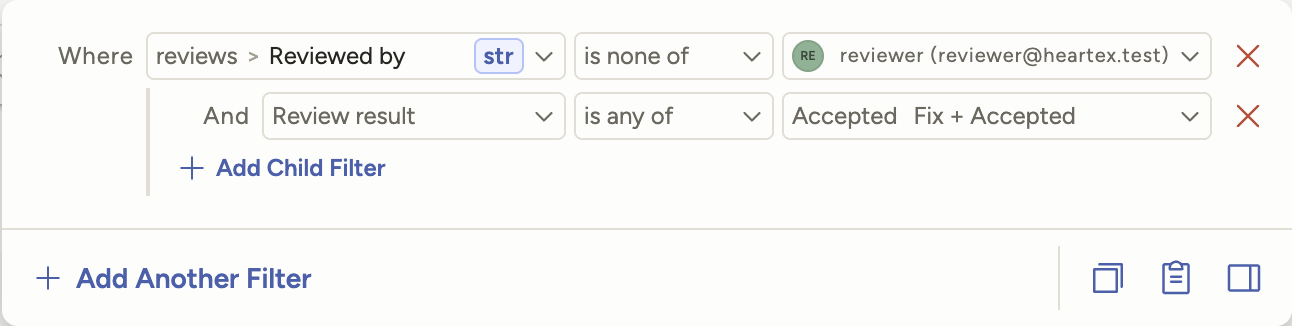
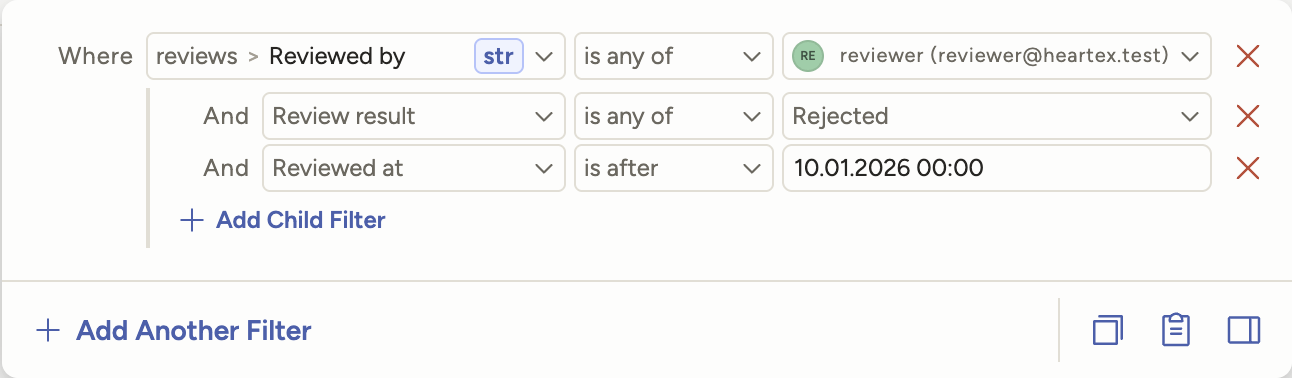
docs: UTC-1543: Use a reviewer rejections example for child filters

diff --git a/docs/source/guide/manage_data.md b/docs/source/guide/manage_data.md
@@ -76,22 +76,19 @@ The following tags are supported:
 
 ### Use child filters
 
-Filters on annotation results, prediction results, and reviews can have child filters. To add one, select **Add Child Filter** under the filter.
+A task can have several annotations, predictions, and reviews. Child filters add conditions to a filter on annotation results, prediction results, or reviews, and every condition applies to the same annotation, prediction, or review. To add one, select **Add Child Filter** under the filter.
 
-A child filter applies to the same annotation, prediction, or review as the filter above it. For example, an annotation results filter with the child filter **Annotated by** matches only tasks where that annotator's own annotation has the selected result. A task where the result is in someone else's annotation doesn't match.
+#### Example: Find recent rejections by a reviewer
 
-To check what a child filter applies to, hover over its **And**.
+Find tasks where a specific reviewer rejected an annotation after a given date:
 
-#### Example: Find tasks accepted by other reviewers
-
-Find tasks with an accepted review, excluding the ones that a specific reviewer accepted:
-
-1. Add a filter on **reviews > Reviewed by**, select **is none of**, and select the reviewer.
-2. Select **Add Child Filter**, then set **Review result** to **is any of** with **Accepted** and **Fix + Accepted**.
+1. Add a filter on **reviews > Reviewed by**, select **is any of**, and select the reviewer.
+2. Select **Add Child Filter**, then set **Review result** to **is any of** with **Rejected**.
+3. Select **Add Child Filter** again, then set **Reviewed at** to **is after** and select the date.
 
 <img src="/images/data-manager-child-filters.png" class="gif-border">
 
-Put **is none of** on the parent filter, not on the child filter. On a child filter it only applies to the same review, so a task that the reviewer accepted still matches when another reviewer also accepted it.
+All three conditions apply to the same review. A task with an older rejection by that reviewer, or a recent rejection by someone else, doesn't match.
 
 </div>
 
